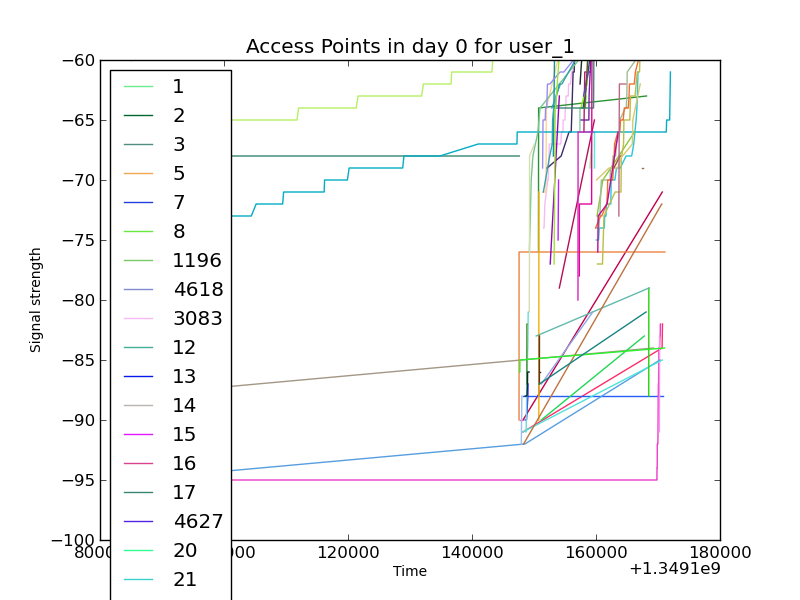
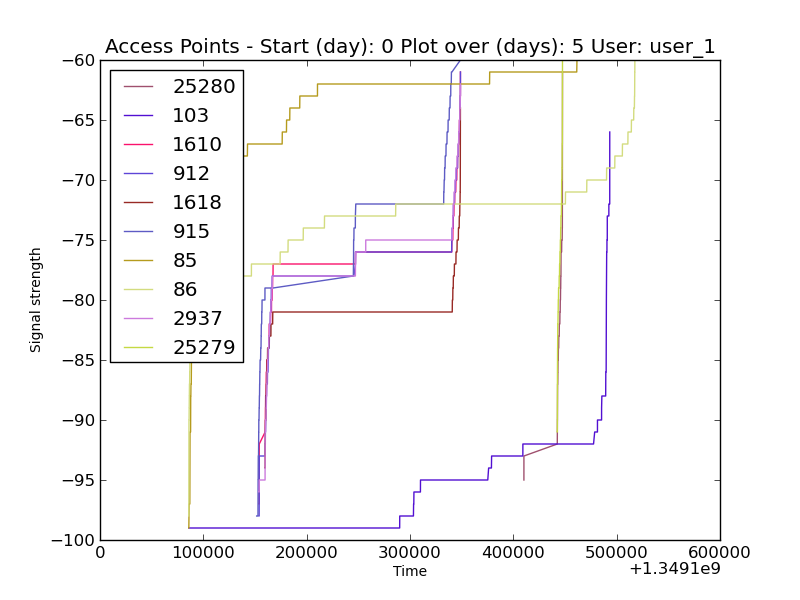
Added plotting for multiple days. Added ploting of only most commin bssids.

diff --git a/handlers/data.py b/handlers/data.py
@@ -12,7 +12,7 @@ MAX_RSSI = -60
 
 DAY_INTERVAL_SECS = 24*60*60
 
-def retrieve_data_from_user(user_file_name, day_no):
+def retrieve_data_from_user(user_file_name, start_day, days_to_consider):
 #    fingerprint_list = []
     user_data = []
     with io.open('../{0}'.format(user_file_name), encoding='utf-8') as f:
@@ -28,14 +28,14 @@ def retrieve_data_from_user(user_file_name, day_no):
             
             # finding first moment of wanted day
             if first_registered_time_of_day == 0:
-                if split_line[1] - first_registered_timestamp >= day_no*DAY_INTERVAL_SECS:
+                if split_line[1] - first_registered_timestamp >= start_day*DAY_INTERVAL_SECS:
                     first_registered_time_of_day = split_line[1]
                     print("First day start time/ Needed day start time: ",first_registered_timestamp, first_registered_time_of_day)
                 else:
                     continue
             
             # eliminating the data from Android/iPhone hotspots & buses/trains 
-            if split_line[5] not in [1, 6, 7, 8] and split_line[1]-first_registered_time_of_day < DAY_INTERVAL_SECS:
+            if split_line[5] not in [1, 6, 7, 8] and split_line[1]-first_registered_time_of_day < days_to_consider * DAY_INTERVAL_SECS:
                 user_data.append(split_line)
         return user_data
     
@@ -101,8 +101,38 @@ def remove_noise(data):
             final_data.append(line)
     
     return final_data
+
+def get_most_common_bssids(data, n_most_common):
+    most_common = dict()
+    
+    for line in data:
+        bssid = line[3]
+        if bssid in most_common.keys():
+            most_common[bssid] = most_common[bssid] + 1
+        else:
+            most_common[bssid] = 1
+     
+    ordered_list = sorted(most_common.items(), key=lambda x: x[1], reverse=True)
+        
+    if n_most_common == -1:
+        bssids = [] # just bssids
+        for x in ordered_list:
+            bssids.append(x[0])
+        return ordered_list, bssids
+    else:
+        bssids = [] # just bssids
+        for x in ordered_list:
+            if len(bssids) < n_most_common:
+                bssids.append(x[0])
+            else:
+                break
+        return ordered_list[0:n_most_common], bssids
+     
+    
             
-def get_fingerprints(data, timestamps, n_best_signal):
+def get_fingerprints(data, timestamps, n_best_signal, bssids_needed = None):
+    """ Returns a dictionari key=timetsamp, value={(bssid, rssi)...} - value contains only first n_best signal APs
+    If bssids_needed list is given, then only those bssids will be added to the fingerprints"""
     data = remove_noise(data)
     
     fingerprint_dict = dict()
@@ -115,15 +145,26 @@ def get_fingerprints(data, timestamps, n_best_signal):
         timestamp = line[1]
         bssid = line[3]
         rssi = line[4]
-        # ap = AccessPoint(bssid,rssi)
         
-        """#TODO - To add access point instead"""
-        fingerprint_dict[timestamp].append((bssid, rssi))
-    
+        if bssids_needed is not None:
+            if bssid in bssids_needed:
+                fingerprint_dict[timestamp].append((bssid, rssi))
+        else:
+            fingerprint_dict[timestamp].append((bssid, rssi))
+
+    if bssids_needed is not None:
+        fingerprint_dict = remove_empty_keys(fingerprint_dict)
+        #print("After removing empty keys: ",fingerprint_dict)
+        
     selected_dict = get_best_signal(n_best_signal, fingerprint_dict)
     
     return selected_dict
 
+def remove_empty_keys(my_dict):
+    for key in my_dict.keys():
+        if len(my_dict[key]) == 0:
+            my_dict.pop(key, None)
+    return my_dict
 """def get_bssids_info_in_time(data, bssids):
     #Returns: a dict which has as keys the identities of APs and values times and strengths of signals at those times
     data = remove_noise(data)
@@ -179,8 +220,9 @@ def get_best_signal(n_best_signal, fingerprint_dict):
     if n_best_signal == -1:
         return fingerprint_dict
     for key in fingerprint_dict.iterkeys():
-        ap_list = fingerprint_dict[key]
-        sorted_list = sorted(ap_list, key=lambda x: x[1])
+        ap_list = fingerprint_dict[key] # list of (bssid, rssi) for each timestamp
+        sorted_list = sorted(ap_list, key=lambda x: x[1]) # above sorted after rssi values
+        # keeping only first n_best_signal from the sorted list
         if len(sorted_list) >= n_best_signal:
             fingerprint_dict[key] = sorted_list[(0-n_best_signal):]
         else:

diff --git a/graphics/bssid_time.py b/graphics/bssid_time.py
@@ -11,7 +11,7 @@ from handlers import data
 
 import matplotlib.pyplot as plt
 
-def plot_for_bssid(color_to_use, data_to_plot, username, day_no):
+def plot_for_bssid(color_to_use, data_to_plot, username, start_day, days_to_consider):
     for key in data_to_plot.iterkeys():
         x_time_list = data_to_plot[key][0]
         y_rssi_list = data_to_plot[key][1]
@@ -20,7 +20,7 @@ def plot_for_bssid(color_to_use, data_to_plot, username, day_no):
         y_sorted_list = sorted(y_rssi_list, key=lambda x: x)
         plt.plot(x_sorted_list, y_sorted_list, color=color_to_use[key], label=key)
         
-    plt.title("Access Points in day "+str(day_no)+" for "+username)
+    plt.title("Access Points - Start (day): "+str(start_day)+" Plot over (days): "+str(days_to_consider)+" User: "+username)
     plt.xlabel("Time", fontsize=10)
     plt.ylabel("Signal strength", fontsize=10)
 
@@ -28,7 +28,7 @@ def plot_for_bssid(color_to_use, data_to_plot, username, day_no):
     plt.savefig(username+"_plot.png")
     plt.show()
 
-def plot_bssid_over_time(user_file, day_no, bssid_occurences, colors):
+def plot_bssid_over_time(user_file, start_day, days_to_consider, bssid_occurences, colors):
     username = user_file
     
     data_to_plot = dict()
@@ -59,32 +59,43 @@ def plot_bssid_over_time(user_file, day_no, bssid_occurences, colors):
         # each bssid will have 2 list (time list and list with strength for bssid at that time)
         data_to_plot[elem[0]] = (time_list, strength_list)"""
         
-    plot_for_bssid(colors, data_to_plot, username, day_no)
+    plot_for_bssid(colors, data_to_plot, username, start_day, days_to_consider)
     
-def prepare_data_and_start_plot(user_file, day_no, n_most_popular):
-    user_data = data.retrieve_data_from_user(user_file,day_no)
-    print("Got "+user_file+" data")
+def prepare_data_and_start_plot(user_file, start_day, days_to_consider, n_best_signal_bssids, m_most_popular_bssids):
+    # get data from file
+    user_data = data.retrieve_data_from_user(user_file,start_day,days_to_consider)
+    #print("Got "+user_file+" data")
     
+    # get unique timestamps from data
     timestamps = data.get_unique_timestamps(user_data)
-    print("Got "+user_file+" timestamps")
-    fingerprints = data.get_fingerprints(user_data, timestamps, n_most_popular)
+    #print("Got "+user_file+" timestamps")
+    
+    # find out which are the bssids which appear most common ( first m_most_popular_bssids)
+    most_common_with_values, most_common_bssids  = data.get_most_common_bssids(user_data, m_most_popular_bssids)
+    
+    # git fingerprints which contain only most popular bssids and get only first n_best_signal_bssids for each
+    fingerprints = data.get_fingerprints(user_data, timestamps, n_best_signal_bssids, most_common_bssids)
     print("Got "+user_file+" fingerprints")
     print(fingerprints)
-        
+    
+    # find out bssid which appear in timestamps
     bssids = data.get_unique_bssid(fingerprints)
     print("Got "+user_file+" bssids")
+    
+    # find out at which times do each bssid appears
     bssid_occurences = data.get_bssids_info_in_time(fingerprints, bssids)
     print("Got "+user_file+" bssid related dictionary")
     
     #most_popular_list = data.get_most_popular(n_most_popular, bssid_occurences)
     
+    # get colors for each bssid
     color_codes = data.generate_color_codes_for_bssid(bssids)
     print("Got "+user_file+" colors")
     
-    print("Start plot for "+user_file)
-    plot_bssid_over_time(user_file, day_no, bssid_occurences, color_codes)
+    # plot
+    plot_bssid_over_time(user_file, start_day, days_to_consider, bssid_occurences, color_codes)
     
-prepare_data_and_start_plot("user_1",0,1)
+prepare_data_and_start_plot("user_1",0,5,5,10)
 
 """
 f = []

diff --git a/scripts/testing.py b/scripts/testing.py
@@ -10,17 +10,17 @@ from scripts import polaris
     
 def testing_data_import():
     print("in testing data",1)
-    user_data = data.retrieve_data_from_user("user_1",1)
+    user_data = data.retrieve_data_from_user("user_1",1,1)
     print("\nData:") 
     print(user_data)
 
 def testing_get_unique_timestamps():
-    user_data = data.retrieve_data_from_user("user_1",0)
+    user_data = data.retrieve_data_from_user("user_1",0,1)
     timestamps = data.get_unique_timestamps(user_data)
     print(timestamps)
 
 def testing_get_unique_bssids():
-    user_data = data.retrieve_data_from_user("user_1_part",0)
+    user_data = data.retrieve_data_from_user("user_1_part",0,1)
     timestamps = data.get_unique_timestamps(user_data)
     fingerprints = data.get_fingerprints(user_data, timestamps,1)
     print(fingerprints)
@@ -28,25 +28,32 @@ def testing_get_unique_bssids():
     print(bssids)
     
 def testing_generate_color_codes_for_bssid():
-    user_data = data.retrieve_data_from_user("user_1",0)
+    user_data = data.retrieve_data_from_user("user_1",0,1)
     bssids = data.get_unique_bssid(user_data)
     color_codes = data.generate_color_codes_for_bssid(bssids)
     print(color_codes)
     
 def testing_remove_noise():
-    user_data = data.retrieve_data_from_user("user_1",0)
+    user_data = data.retrieve_data_from_user("user_1",0,1)
     no_noise_data = data.remove_noise(user_data)
     print(no_noise_data)
     
 def testing_get_fingerprints():
-    user_data = data.retrieve_data_from_user("user_1_part",0)
+    user_data = data.retrieve_data_from_user("user_1",0,1)
     timestamps = data.get_unique_timestamps(user_data)
-    fingerprints = data.get_fingerprints(user_data, timestamps,-1)
-    print(fingerprints)
-    fingerprints = data.get_fingerprints(user_data, timestamps,1)
-    print(fingerprints)
+    
+    most_common_with_values, most_common_bssids  = data.get_most_common_bssids(user_data, 10)
+    print(most_common_with_values)
+    print(most_common_bssids)
+    
+    #fingerprints = data.get_fingerprints(user_data, timestamps,-1)
+    #print("Normal: ",fingerprints)
+    fingerprints = data.get_fingerprints(user_data, timestamps, 5, most_common_bssids)
+    print(fingerprints)    
+    #fingerprints = data.get_fingerprints(user_data, timestamps,1)
+    #print(fingerprints)
 def testing_calculating_level():
-    user_data = data.retrieve_data_from_user("user_1",0)
+    user_data = data.retrieve_data_from_user("user_1",0,1)
     timestamps = data.get_unique_timestamps(user_data)
     fingerprints = data.get_fingerprints(user_data, timestamps)
     for ts in timestamps:
@@ -70,6 +77,12 @@ def testing_get_most_used():
     print(bssid_occurences)
     most_popular = data.get_most_popular(2, bssid_occurences)
     print(most_popular)
+
+def testing_get_most_common_bssids():
+    user_data = data.retrieve_data_from_user("user_1",0)
+    most_common_with_values, most_common_bssids  = data.get_most_common_bssids(user_data, 1)
+    print(most_common_with_values)
+    print(most_common_bssids)
     
 #print("This is testing")
 #testing_data_import()
@@ -77,7 +90,8 @@ def testing_get_most_used():
 #testing_get_unique_bssids()
 #testing_generate_color_codes_for_bssid()
 #testing_remove_noise()
-#testing_get_fingerprints()
+testing_get_fingerprints()
 #testing_calculating_level()
 #testing_get_signal_similarity()
-testing_get_most_used()
+#testing_get_most_used()
+#testing_get_most_common_bssids()
